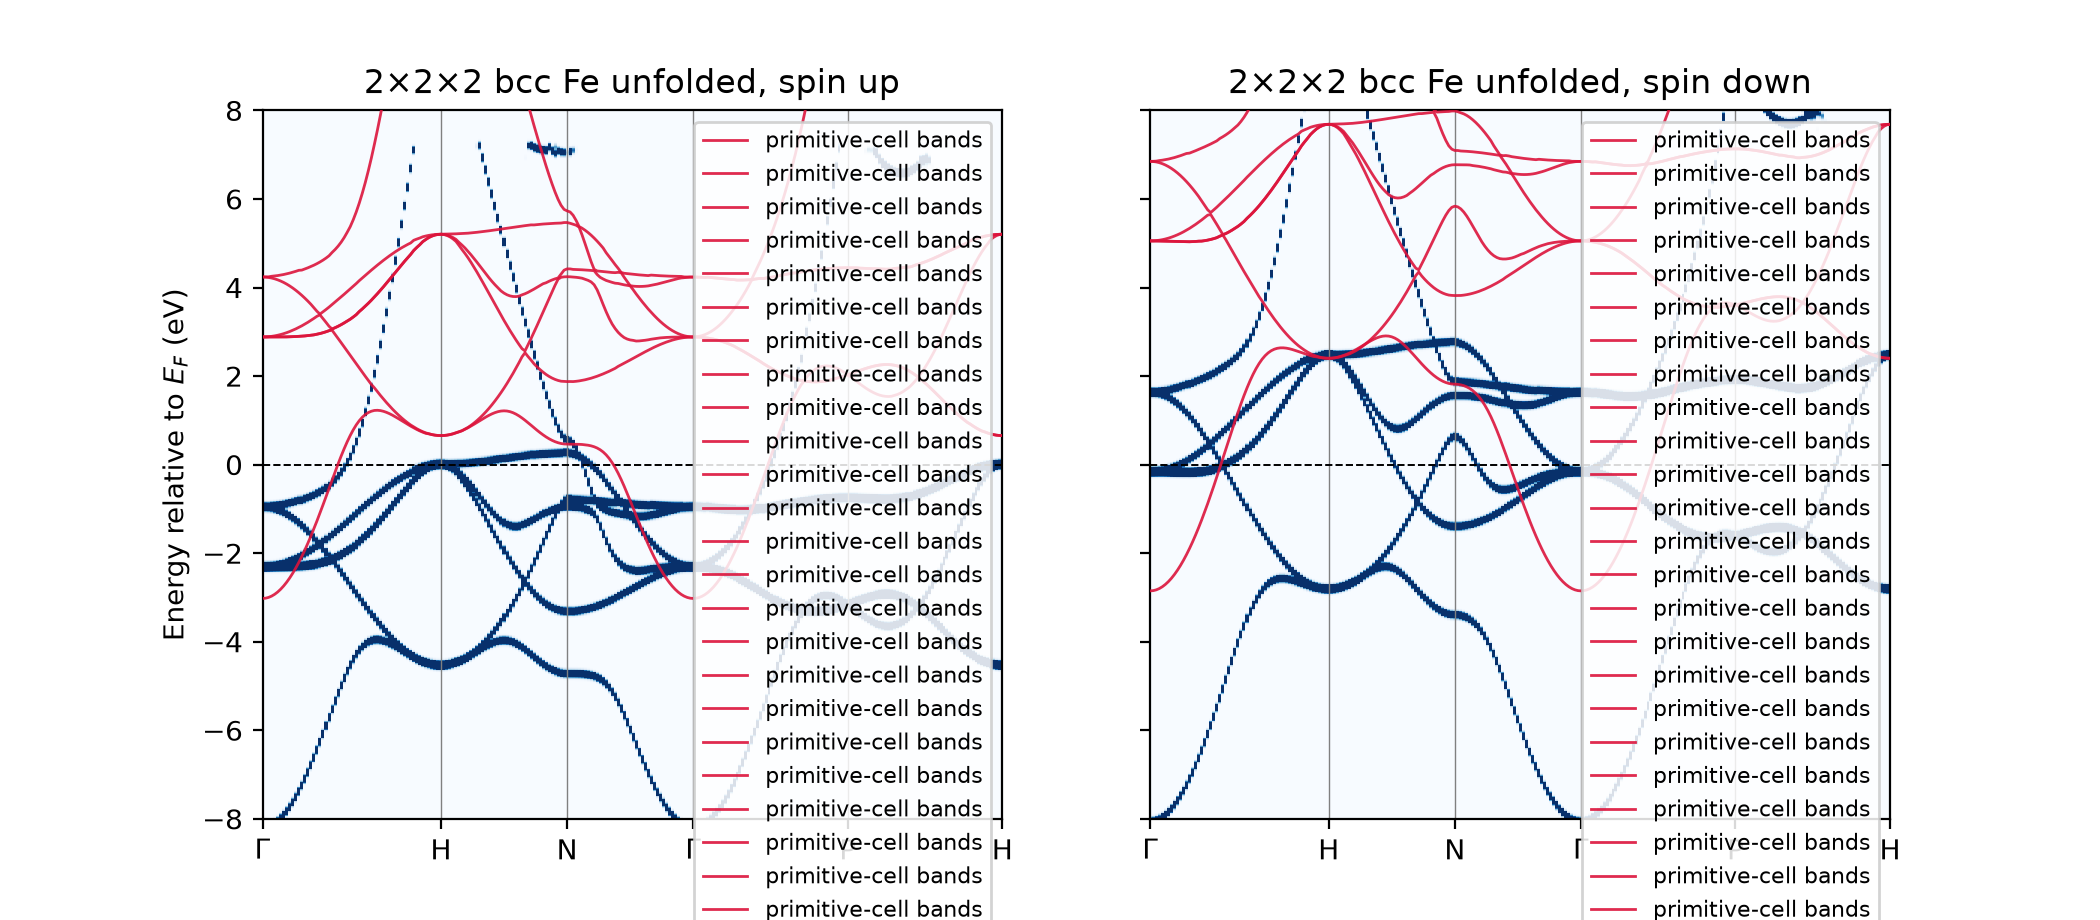
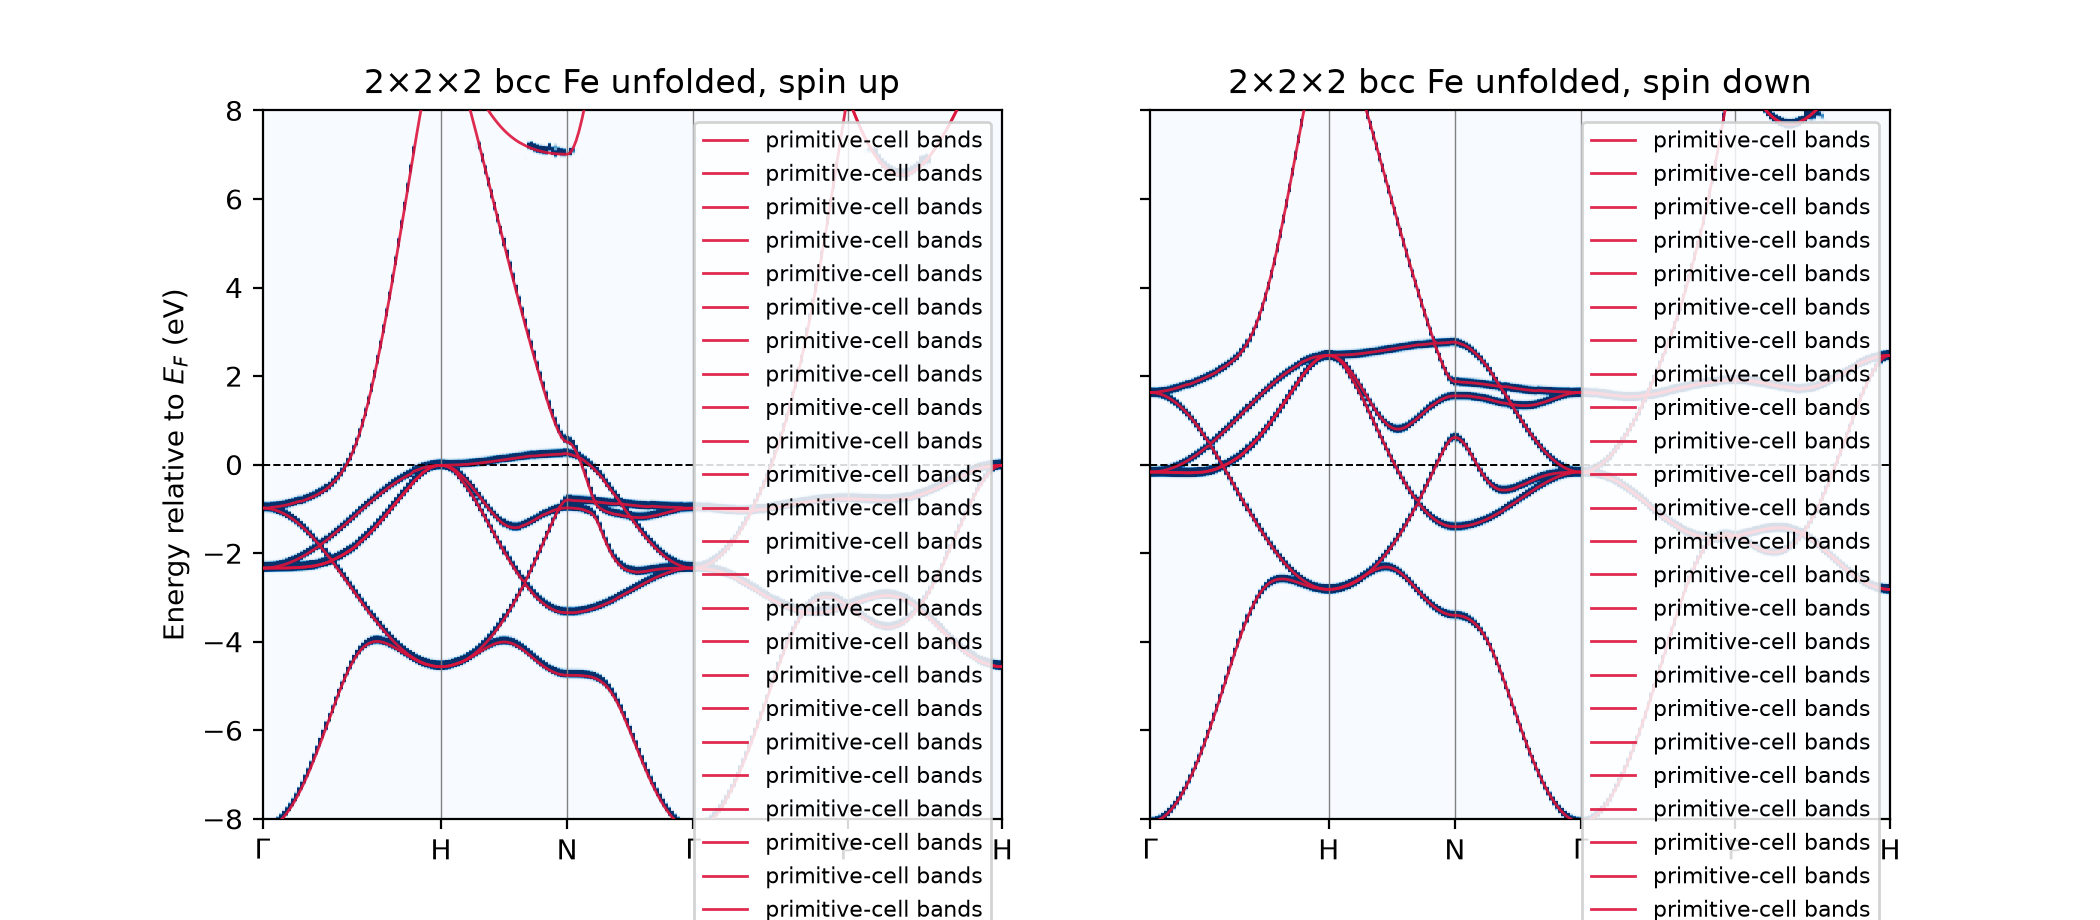
Split PAW docs into ABINIT and VASP pages; fix Fe overlay E_F reference
- unfold_fe.py: primitive overlay was plotted on its absolute scale
  (prim + ef_sc - ef_prim, a ~5.2 eV offset vs the E_F-referenced map);
  now both are referenced to their own SCF Fermi level (residual -31 meV
  E_F gap documented)
- docs: paw-plane-wave.md replaced by abinit-paw.md (dense-path Si/Si:P)
  and vasp-paw.md (bcc Fe path); gamma-only Si7p figure dropped from the
  site; gallery shows two cards

diff --git a/examples/vasp_fe/unfold_fe.py b/examples/vasp_fe/unfold_fe.py
@@ -147,7 +147,7 @@ def main(figure=None):
         A = spectral_map(energies, weights, egrid)
         ax.pcolormesh(x, egrid, A.T, cmap="Blues", vmin=0.0, vmax=2.0,
                       shading="auto", rasterized=True)
-        ax.plot(x, prim_curves[spin] + ef_sc - ef_prim, color="crimson",
+        ax.plot(x, prim_curves[spin] - ef_prim, color="crimson",
                 lw=1.0, alpha=0.9, zorder=5, label="primitive-cell bands")
         for xt in X[1:-1]:
             ax.axvline(xt, color="gray", lw=0.5)

diff --git a/docs/content/examples/abinit-paw.md b/docs/content/examples/abinit-paw.md
@@ -1,0 +1,93 @@
+---
+title: "ABINIT PAW plane-wave unfolding: Si and Si:P"
+weight: 14
+---
+
+A PAW wavefunction is normalized in the overlap metric, not by the sum
+of its pseudo plane-wave coefficient norms. `unfolding.abinit_paw`
+evaluates physical overlaps with the PAW metric
+`S = I + Σ_aij |p_ai⟩ ΔS_aij ⟨p_aj|`; only overlap augmentation `ΔS`
+enters the spectral projection, not the nonlocal Hamiltonian `D`.
+Primitive reference wavefunctions are embedded into the supercell G
+basis, `A = B† S C` and `G = B† S B`, and each weight is the diagonal
+of `A† G⁻¹ A`.
+
+`HamiltonIO.abinit.read_paw_wfk` reads ABINIT 9/10 netCDF WFKs and JTH
+PAW XML datasets (via `pypao`); the WFK stores pseudo coefficients but
+**not** projector overlaps. `unfolding.abinit_paw.unfold_abinit_paw`
+evaluates the reciprocal projectors (via `abinao`), atom-site overlap
+correction, and reference-band weights. The ordinary `unfold_abinit`
+rejects PAW WFKs rather than silently treating them as
+norm-conserving.
+
+ABINIT stores degenerate eigenspace blocks (e.g. everything at
+supercell Gamma) in an arbitrary unitary gauge, which scrambles raw
+per-band weight diagonals — up to the full weight landing on the wrong
+fold. Passing `resolve_degenerate` eigen-assigns the reference
+projector and the pseudo-coset operator inside each degenerate group,
+giving gauge-invariant branch weights; without it the returned
+diagonals are only meaningful for non-degenerate bands.
+
+```python
+from pathlib import Path
+from HamiltonIO.abinit import HARTREE_TO_EV
+from unfolding.abinit_paw import unfold_abinit_paw
+base = Path('tests/data/abinit_paw')
+xml = {symbol: base / f'{symbol}.xml' for symbol in ('Si', 'P')}
+M = [[-1, 1, 1], [1, -1, 1], [1, 1, -1]]
+result = unfold_abinit_paw(base/'si7p_gammao_WFK.nc',
+                           base/'si_primitive_foldso_WFK.nc', xml, M,
+                           resolve_degenerate=1e-3 / HARTREE_TO_EV)
+```
+
+The committed inputs and small WFKs in `tests/data/abinit_paw`
+reproduce 8-atom pristine Si, 8-atom Si7P, and a 2-atom primitive
+reference at the four momenta folding to supercell Gamma
+(`python examples/abinit_paw/unfold.py`). The real PAW Si8 WFK has
+maximum `|⟨ψ̃|S|ψ̃⟩−1|` of 5.8×10⁻⁷; resolved branch weights are
+within 2×10⁻⁶ of zero or one; for Si7P the PAW-minus-pseudo weight
+difference stays at 0.015.
+
+## Dense GXWGLWX path
+
+`tests/data/abinit_paw/regenerate_path_on_nic6.sh` stages the bundled
+JTH XMLs and three committed decks on nic6 (scratch staging; the decks
+run serially and concurrently) and fetches the dataset-2 WFKs. Each
+supercell deck mirrors its committed Gamma deck (`ixc 11`, `ecut 10 Ha`,
+`pawecutdg 20 Ha`, `nband 32`) with `ndtset 2`: dataset 1 is an SCF at
+supercell Gamma, dataset 2 a non-SCF run over the 305-point
+Γ-X-W-Γ-L-W-X path. Dataset 2 reuses the validated norm-conserving
+deck's kpt list verbatim in supercell coordinates, `K = k_prim @ M.T`;
+a 2-atom primitive deck runs the same path in primitive coordinates and
+supplies the embedded reference banks. The fetched WFKs are hundreds of
+MB and stay external (gitignored); the committed decks plus script
+reproduce them.
+
+Because the supercell k-list *is* the path, each stored supercell state
+contributes one primitive momentum sector per path point, and
+`unfold_abinit_paw` unfolds it unchanged: the primitive reference bands
+at `k = K @ M⁻¹` embed geometrically into the stored supercell G sphere
+exactly as for the Gamma-only fixtures. The projector-block cache is
+bounded, so a 305-point run costs no more memory than a 4-point one.
+
+`python examples/abinit_paw/unfold_path.py` renders
+`docs/static/images/abinit_paw_si_path.png`: two weight-coded panels
+(pristine Si8, Si:P) on the house-style path axis with E at the NSCF
+Fermi level. The PAW normalization residual stays below 3×10⁻⁶ along
+the path. Pristine Si is binary below 6 eV wherever bands are
+non-degenerate (the top of the 32-band manifold, above ~7 eV, is the
+NSCF Davidson tail and not weight-converged). Si:P mixes primitive
+sectors: the donor window (-1.5 to 2.5 eV) carries hundreds of
+fractional single-sector weights (median ≈ 0.36, consistent with the
+donor spreading over the four sectors), and sector states anticross
+along the path, so isolated bands go fractional at crossings — the
+dopant fingerprint the Gamma-only fixture cannot show. Against the
+norm-conserving route (`docgen/fig_abinit_si8.py`, ecut 25 vs PAW ecut
+10) the matched high-weight bands agree to 0.16 eV maximum after a
++0.07 eV potential-reference shift.
+
+{{< figure src="/images/abinit_paw_si_path.png" title="ABINIT PAW unfolded GXWGLWX path: pristine Si8 (left) and Si7P (right). Line opacity encodes the PAW S-metric weight on the primitive-sector reference bank; E_F = 0." >}}
+
+`tests/test_abinit_paw.py` pins these numbers (skipped when the
+external WFKs are absent): fixture shapes, pristine binarity, the Si:P
+donor fractional-weight pattern, and the PAW-vs-NC band agreement.

diff --git a/docs/content/examples/vasp-paw.md b/docs/content/examples/vasp-paw.md
@@ -1,0 +1,80 @@
+---
+title: "VASP PAW plane-wave unfolding: bcc Fe"
+weight: 15
+---
+
+A PAW wavefunction is normalized in the overlap metric, not by the sum
+of its pseudo plane-wave coefficient norms (for bcc Fe the first-band
+pseudo coefficient norms range 0.33-1.10). `unfolding.vasp_paw`
+evaluates physical overlaps with the PAW metric
+`S = I + Σ_aij |p_ai⟩ ΔS_aij ⟨p_aj|` built from the POTCAR projector
+tables; only overlap augmentation `ΔS` enters the spectral projection,
+not the nonlocal Hamiltonian `D`. Primitive reference wavefunctions are
+embedded into the supercell G basis, `A = B† S C` and `G = B† S B`,
+and each weight is the diagonal of `A† G⁻¹ A`.
+
+`HamiltonIO.vasp.read_wavecar` parses standard full-sphere scalar
+WAVECARs through pymatgen; `read_potcar_paw` reads the matching POTCAR's
+reciprocal projector tables and AE/pseudo partial waves. The VASP
+license prohibits redistributing POTCAR here. Run
+`unfolding.vasp_paw.unfold_vasp_paw((WAVECAR, POSCAR),
+(primitive_WAVECAR, primitive_POSCAR), POTCAR, M)` with matching
+datasets. Gamma-half and noncollinear WAVECAR layouts are deliberately
+unsupported. An 11-fold *constructed* Fe supercell embedding of a real
+primitive wavefunction verifies the non-diagonal lattice reciprocal
+mapping and restores its PAW norm within 2×10⁻⁸.
+
+To exercise the licensed fixture locally, set `UNFOLDING_VASP_FE_SEED`
+to a private directory with `WAVECAR`, `POSCAR`, `POTCAR`, then run
+`python -m pytest tests/test_vasp_paw.py`. No licensed bytes are stored
+in this repository.
+
+## Dense path: bcc Fe through a 16-fold supercell
+
+`examples/vasp_fe` extends the route to a dense band path, mirroring
+the ABINIT/SIESTA style. `make_inputs.py` writes all inputs: the
+primitive bcc cell (1 atom, a = 2.866 Å) and its 2×2×2 conventional
+supercell (16 atoms) via rows-convention
+`M = 2*[[0,1,1],[1,0,1],[1,1,0]]` (det 16), a 250-point primitive path
+Γ-H-N-Γ-P-H from `ase.dft.kpoints.bandpath` mapped to supercell
+coordinates as `K_sc = k_prim @ M.T`, spin-polarized SCF charge runs
+(ISPIN=2, ENCUT 300 eV, Gaussian smearing 0.05 eV, the settings of the
+validated projector seed), and `ICHARG=11` NSCF runs with `NBANDS = 96`
+(≥ 82 occupied majority-spin bands plus margin; supercell and primitive
+banks must share NBANDS so resolved weights pair with supercell bands
+index-by-index). Copy a private PAW_PBE Fe POTCAR into each run
+directory and run `vasp_std`; ~10 irreducible k-points converge the
+supercell SCF, the path NSCF is cheapest with `KPAR = 8` (this build's
+`KPAR = 16` writer is unstable and `KPAR` switches the WAVECAR to the
+single-precision 45200 layout with unwrapped k-coordinates).
+
+Two reader quirks are handled in `examples/vasp_fe`:
+`wrap_wavecar.py` rewraps stored k-points so pymatgen accepts the file,
+and `read_wavecar_ordered.py` enumerates each G list in VASP's stored
+(unwrapped) k frame with the fold-lexicographic order VASP writes
+coefficients in — pymatgen's wrapped-k assumption silently permutes the
+coefficient↔G assignment for general k, which shows up as PAW S-norm
+residuals of ~0.6 instead of ~10⁻⁵.
+
+`unfold_fe.py` unfolds both spins (`resolve_degenerate=1e-3` eV, as in
+the Si examples) and draws the spin-resolved weighted-band map over
+[−8, +8] eV (metallic Fe: d manifold plus sp states around E_F). The
+unfolded map and the crimson primitive-cell overlay are each referenced
+to the Fermi level of their **own** SCF run; the two E_F differ by
+−31 meV (16-atom vs 1-atom sampling), which is the visible residual
+between the overlay and the weight-1 branches. The consistency report
+over all 250 path points: PAW S-norm residual ≤ 5.3×10⁻⁵ on real
+supercell states, sector weights binary away from degeneracies
+(interstitial fraction ≤ 1.3×10⁻³ of window states), and weight-1
+branches matching the primitive dispersion to max 0.063 eV / rms
+0.009 eV (spin up) and 0.019 / 0.003 eV (spin down) over ~1438 branches
+after removing the E_F gap in the numeric comparison.
+
+{{< figure src="/images/vasp_fe_path.png" title="VASP PAW unfolding of a 2×2×2 conventional bcc-Fe supercell (16 atoms, det 16) along the primitive Γ-H-N-Γ-P-H path (250 points): spin-resolved effective band map with the directly computed primitive-cell bands overlaid (crimson), both E_F-referenced. Marker-free white regions carry no fold of the path momentum; the window is E_F ± 8 eV." >}}
+
+Run `python examples/vasp_fe/unfold_fe.py` with `UNFOLDING_VASP_FE_SEED`
+(POTCAR directory) and `UNFOLDING_VASP_FE_RUNS` (run tree) set to redraw
+the figure; `tests/test_vasp_paw.py` pins the sector binarity, PAW norm
+restoration and primitive agreement on a path subsample (skipped when
+the external WAVECARs are absent). The supercell NSCF WAVECAR (~0.9 GB)
+stays outside the repository.

diff --git a/docs/content/examples/_index.md b/docs/content/examples/_index.md
@@ -21,7 +21,8 @@ bundled (large GPAW restarts and VASP's licensed POTCAR/WAVECAR).
 {{< card title="GPAW plane-wave Si and Si:P" link="/examples/gpaw-si-pw/" src="/images/gpaw_si_pw_unfolded.png" text="Unfold GPAW pseudo plane-wave coefficients, without PAW augmentation." >}}
 {{< card title="ABACUS LCAO Si and Si:P" link="/examples/abacus-si/" src="/images/abacus_si_unfolded.png" text="Unfold ABACUS numerical-orbital Hamiltonians with overlap-aware weights." >}}
 {{< card title="ABACUS plane-wave Si and Si:P" link="/examples/abacus-si-pw/" src="/images/abacus_si_pw_unfolded.png" text="Unfold ABACUS plane-wave coefficients on the primitive-cell path." >}}
-{{< card title="ABINIT and VASP PAW plane waves" link="/examples/paw-plane-wave/" src="/images/abinit_paw_si7p.png" text="Use PAW overlap augmentation for ABINIT Si:P and licensed VASP WAVECAR/POTCAR." >}}
+{{< card title="ABINIT PAW Si and Si:P" link="/examples/abinit-paw/" src="/images/abinit_paw_si_path.png" text="JTH PAW overlap augmentation on the dense GXWGLWX path; pristine binary, dopant fractional." >}}
+{{< card title="VASP PAW bcc Fe" link="/examples/vasp-paw/" src="/images/vasp_fe_path.png" text="Licensed WAVECAR/POTCAR, 16-fold supercell along the dense primitive path." >}}
 
 {{< card title="SIESTA spinors" link="/examples/siesta-spinor/" src="/images/si_spinor_unfolded.png" text="Non-collinear (nspin=4) supercells unfold through the same pipeline." >}}
 
